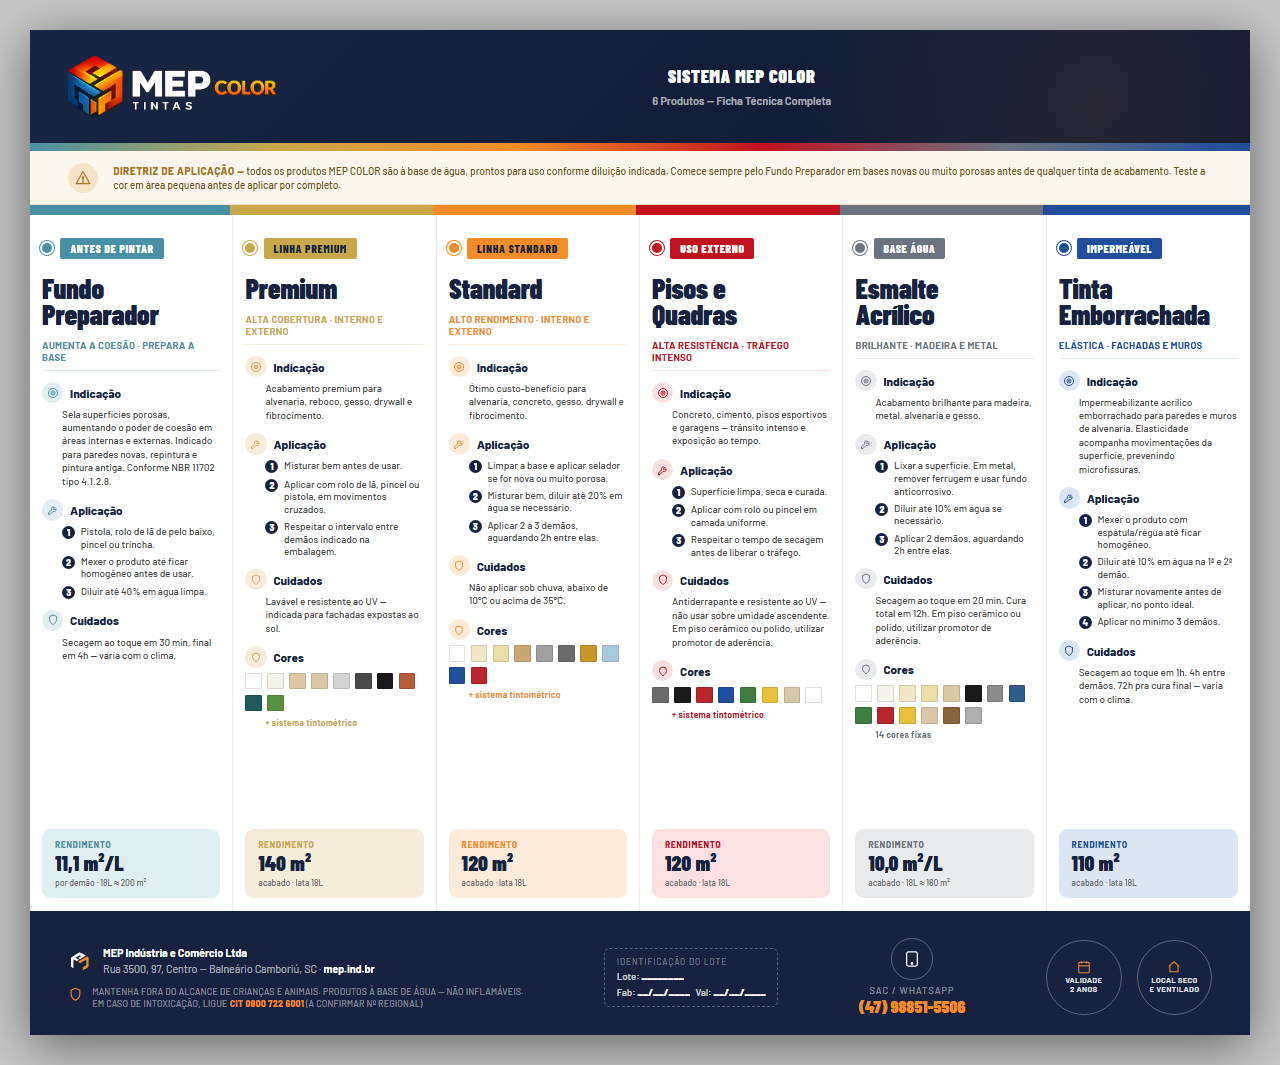
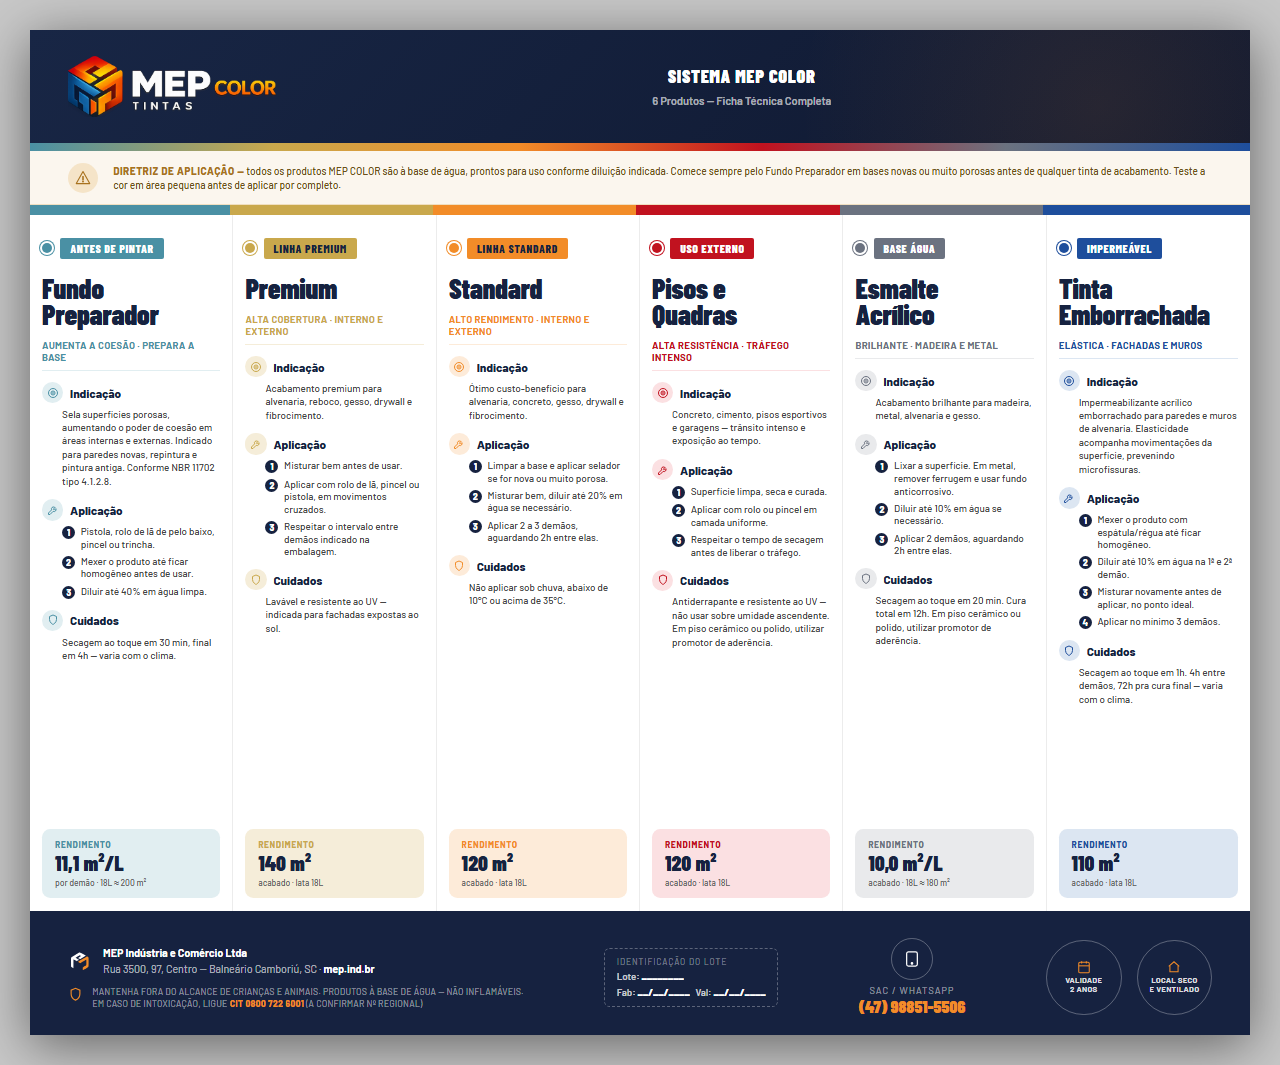
Remove secao de cores de todas as 6 colunas do rotulo MEP COLOR

Changed region(s): [[0.1875, 0.5887, 0.5, 0.6817], [0.6562, 0.6197, 0.8125, 0.7127], [0.5, 0.6197, 0.625, 0.6817]]

diff --git a/marketing/conteudo/rotulo-mep-color-18l-2026-06-27/rotulo-verso-sistema.html b/marketing/conteudo/rotulo-mep-color-18l-2026-06-27/rotulo-verso-sistema.html
@@ -307,26 +307,6 @@ body { margin:0; padding:30px; background:#c8c8c8; display:flex; justify-content
         <div class="sec-body">Lavável e resistente ao UV — indicada para fachadas expostas ao sol.</div>
       </div>
 
-      <div class="cores-sec">
-        <div class="sec-head">
-          <div class="sec-icon-wrap"><svg class="sec-icon" viewBox="0 0 24 24" fill="none" stroke="currentColor" stroke-width="2"><path d="M12 21.5c4-3 7-6.5 7-10.5a7 7 0 10-14 0c0 4 3 7.5 7 10.5z"/></svg></div>
-          <div class="sec-title">Cores</div>
-        </div>
-        <div class="cores-row">
-          <div class="cores-chip" style="background:#FFFFFF"></div>
-          <div class="cores-chip" style="background:#F5F3EC"></div>
-          <div class="cores-chip" style="background:#DCC9A3"></div>
-          <div class="cores-chip" style="background:#D9C7A8"></div>
-          <div class="cores-chip" style="background:#D4D4D4"></div>
-          <div class="cores-chip" style="background:#4A4A4A"></div>
-          <div class="cores-chip" style="background:#1A1A1A"></div>
-          <div class="cores-chip" style="background:#B85C38"></div>
-          <div class="cores-chip" style="background:#1F5A5A"></div>
-          <div class="cores-chip" style="background:#5A8F3C"></div>
-        </div>
-        <div class="cores-note">+ sistema tintométrico</div>
-      </div>
-
       <div class="rend-chip">
         <div class="rend-label">Rendimento</div>
         <div class="rend-value">140 m²</div>
@@ -367,26 +347,6 @@ body { margin:0; padding:30px; background:#c8c8c8; display:flex; justify-content
           <div class="sec-title">Cuidados</div>
         </div>
         <div class="sec-body">Não aplicar sob chuva, abaixo de 10°C ou acima de 35°C.</div>
-      </div>
-
-      <div class="cores-sec">
-        <div class="sec-head">
-          <div class="sec-icon-wrap"><svg class="sec-icon" viewBox="0 0 24 24" fill="none" stroke="currentColor" stroke-width="2"><path d="M12 21.5c4-3 7-6.5 7-10.5a7 7 0 10-14 0c0 4 3 7.5 7 10.5z"/></svg></div>
-          <div class="sec-title">Cores</div>
-        </div>
-        <div class="cores-row">
-          <div class="cores-chip" style="background:#FFFFFF"></div>
-          <div class="cores-chip" style="background:#F0E6C8"></div>
-          <div class="cores-chip" style="background:#E8DFA8"></div>
-          <div class="cores-chip" style="background:#C9A876"></div>
-          <div class="cores-chip" style="background:#A0A0A0"></div>
-          <div class="cores-chip" style="background:#6B6B6B"></div>
-          <div class="cores-chip" style="background:#C9962C"></div>
-          <div class="cores-chip" style="background:#A8C8DC"></div>
-          <div class="cores-chip" style="background:#1E4E9C"></div>
-          <div class="cores-chip" style="background:#B8272C"></div>
-        </div>
-        <div class="cores-note">+ sistema tintométrico</div>
       </div>
 
       <div class="rend-chip">
@@ -431,24 +391,6 @@ body { margin:0; padding:30px; background:#c8c8c8; display:flex; justify-content
         <div class="sec-body">Antiderrapante e resistente ao UV — não usar sobre umidade ascendente. Em piso cerâmico ou polido, utilizar promotor de aderência.</div>
       </div>
 
-      <div class="cores-sec">
-        <div class="sec-head">
-          <div class="sec-icon-wrap"><svg class="sec-icon" viewBox="0 0 24 24" fill="none" stroke="currentColor" stroke-width="2"><path d="M12 21.5c4-3 7-6.5 7-10.5a7 7 0 10-14 0c0 4 3 7.5 7 10.5z"/></svg></div>
-          <div class="sec-title">Cores</div>
-        </div>
-        <div class="cores-row">
-          <div class="cores-chip" style="background:#6B6B6B"></div>
-          <div class="cores-chip" style="background:#1A1A1A"></div>
-          <div class="cores-chip" style="background:#B8272C"></div>
-          <div class="cores-chip" style="background:#1E4E9C"></div>
-          <div class="cores-chip" style="background:#3E7D3E"></div>
-          <div class="cores-chip" style="background:#E8C13C"></div>
-          <div class="cores-chip" style="background:#D9C7A8"></div>
-          <div class="cores-chip" style="background:#FFFFFF"></div>
-        </div>
-        <div class="cores-note">+ sistema tintométrico</div>
-      </div>
-
       <div class="rend-chip">
         <div class="rend-label">Rendimento</div>
         <div class="rend-value">120 m²</div>
@@ -489,30 +431,6 @@ body { margin:0; padding:30px; background:#c8c8c8; display:flex; justify-content
           <div class="sec-title">Cuidados</div>
         </div>
         <div class="sec-body">Secagem ao toque em 20 min. Cura total em 12h. Em piso cerâmico ou polido, utilizar promotor de aderência.</div>
-      </div>
-
-      <div class="cores-sec">
-        <div class="sec-head">
-          <div class="sec-icon-wrap"><svg class="sec-icon" viewBox="0 0 24 24" fill="none" stroke="currentColor" stroke-width="2"><path d="M12 21.5c4-3 7-6.5 7-10.5a7 7 0 10-14 0c0 4 3 7.5 7 10.5z"/></svg></div>
-          <div class="sec-title">Cores</div>
-        </div>
-        <div class="cores-row">
-          <div class="cores-chip" style="background:#FFFFFF"></div>
-          <div class="cores-chip" style="background:#F5F3EC"></div>
-          <div class="cores-chip" style="background:#F0E6C8"></div>
-          <div class="cores-chip" style="background:#E8DFA8"></div>
-          <div class="cores-chip" style="background:#DCC9A3"></div>
-          <div class="cores-chip" style="background:#1A1A1A"></div>
-          <div class="cores-chip" style="background:#8C8C8C"></div>
-          <div class="cores-chip" style="background:#2E5C8A"></div>
-          <div class="cores-chip" style="background:#3E7D3E"></div>
-          <div class="cores-chip" style="background:#B8272C"></div>
-          <div class="cores-chip" style="background:#E8C13C"></div>
-          <div class="cores-chip" style="background:#D9C7A8"></div>
-          <div class="cores-chip" style="background:#8C6239"></div>
-          <div class="cores-chip" style="background:#B0B0B0"></div>
-        </div>
-        <div class="cores-note">14 cores fixas</div>
       </div>
 
       <div class="rend-chip">
